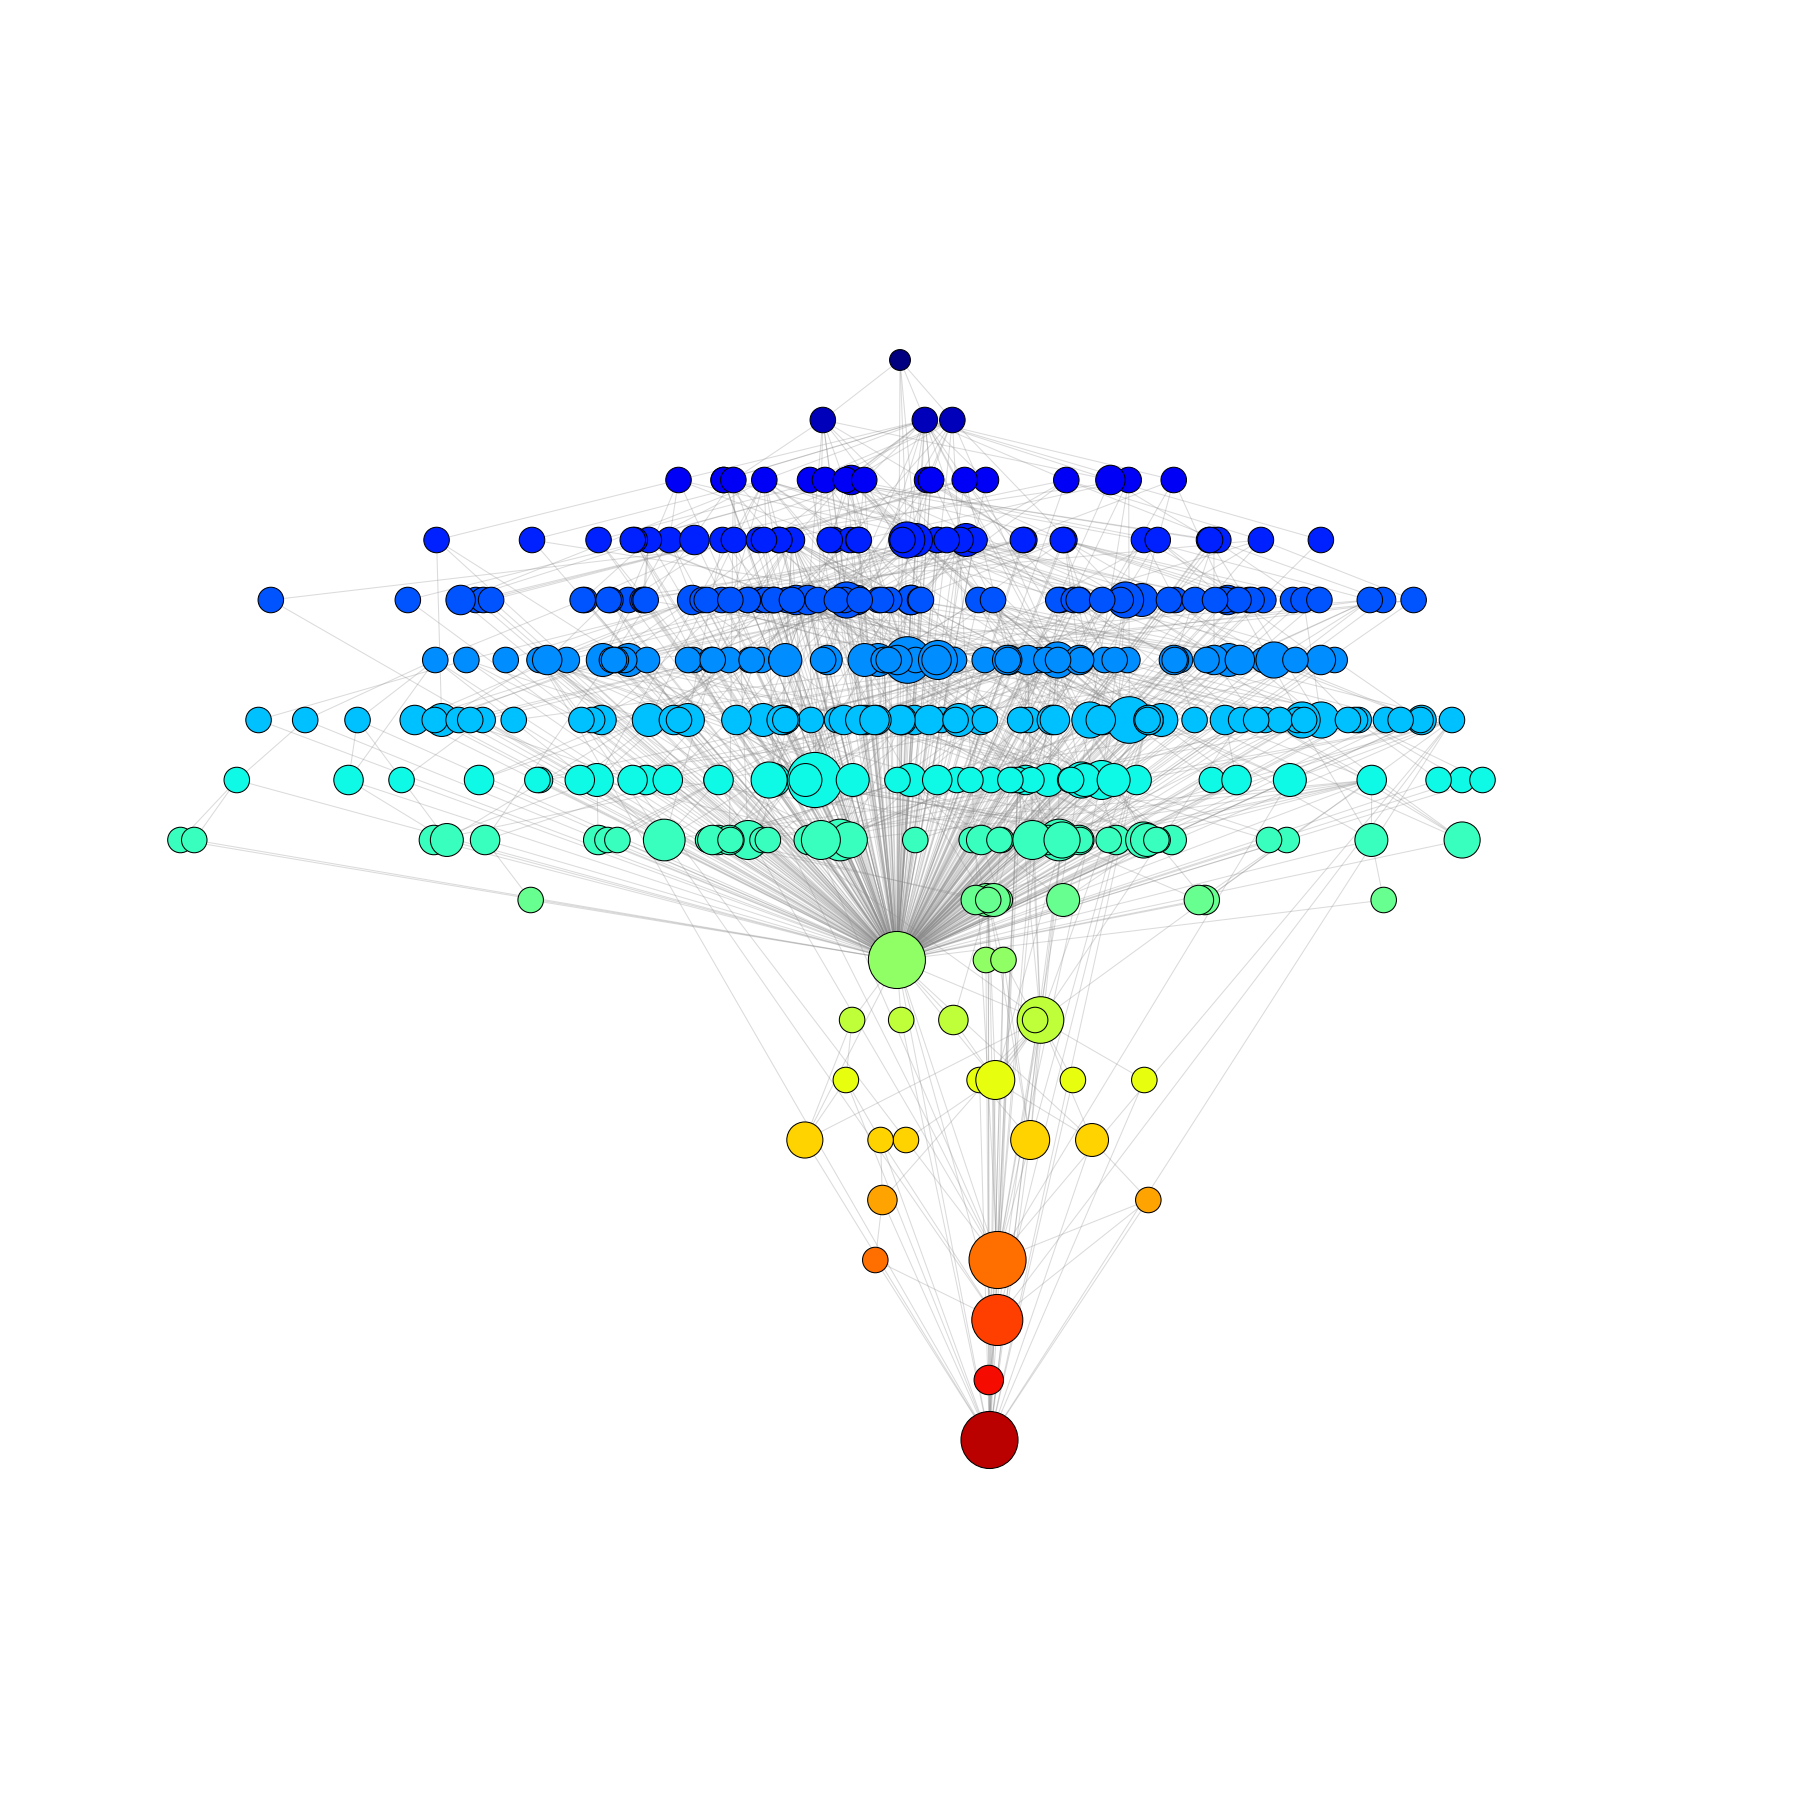
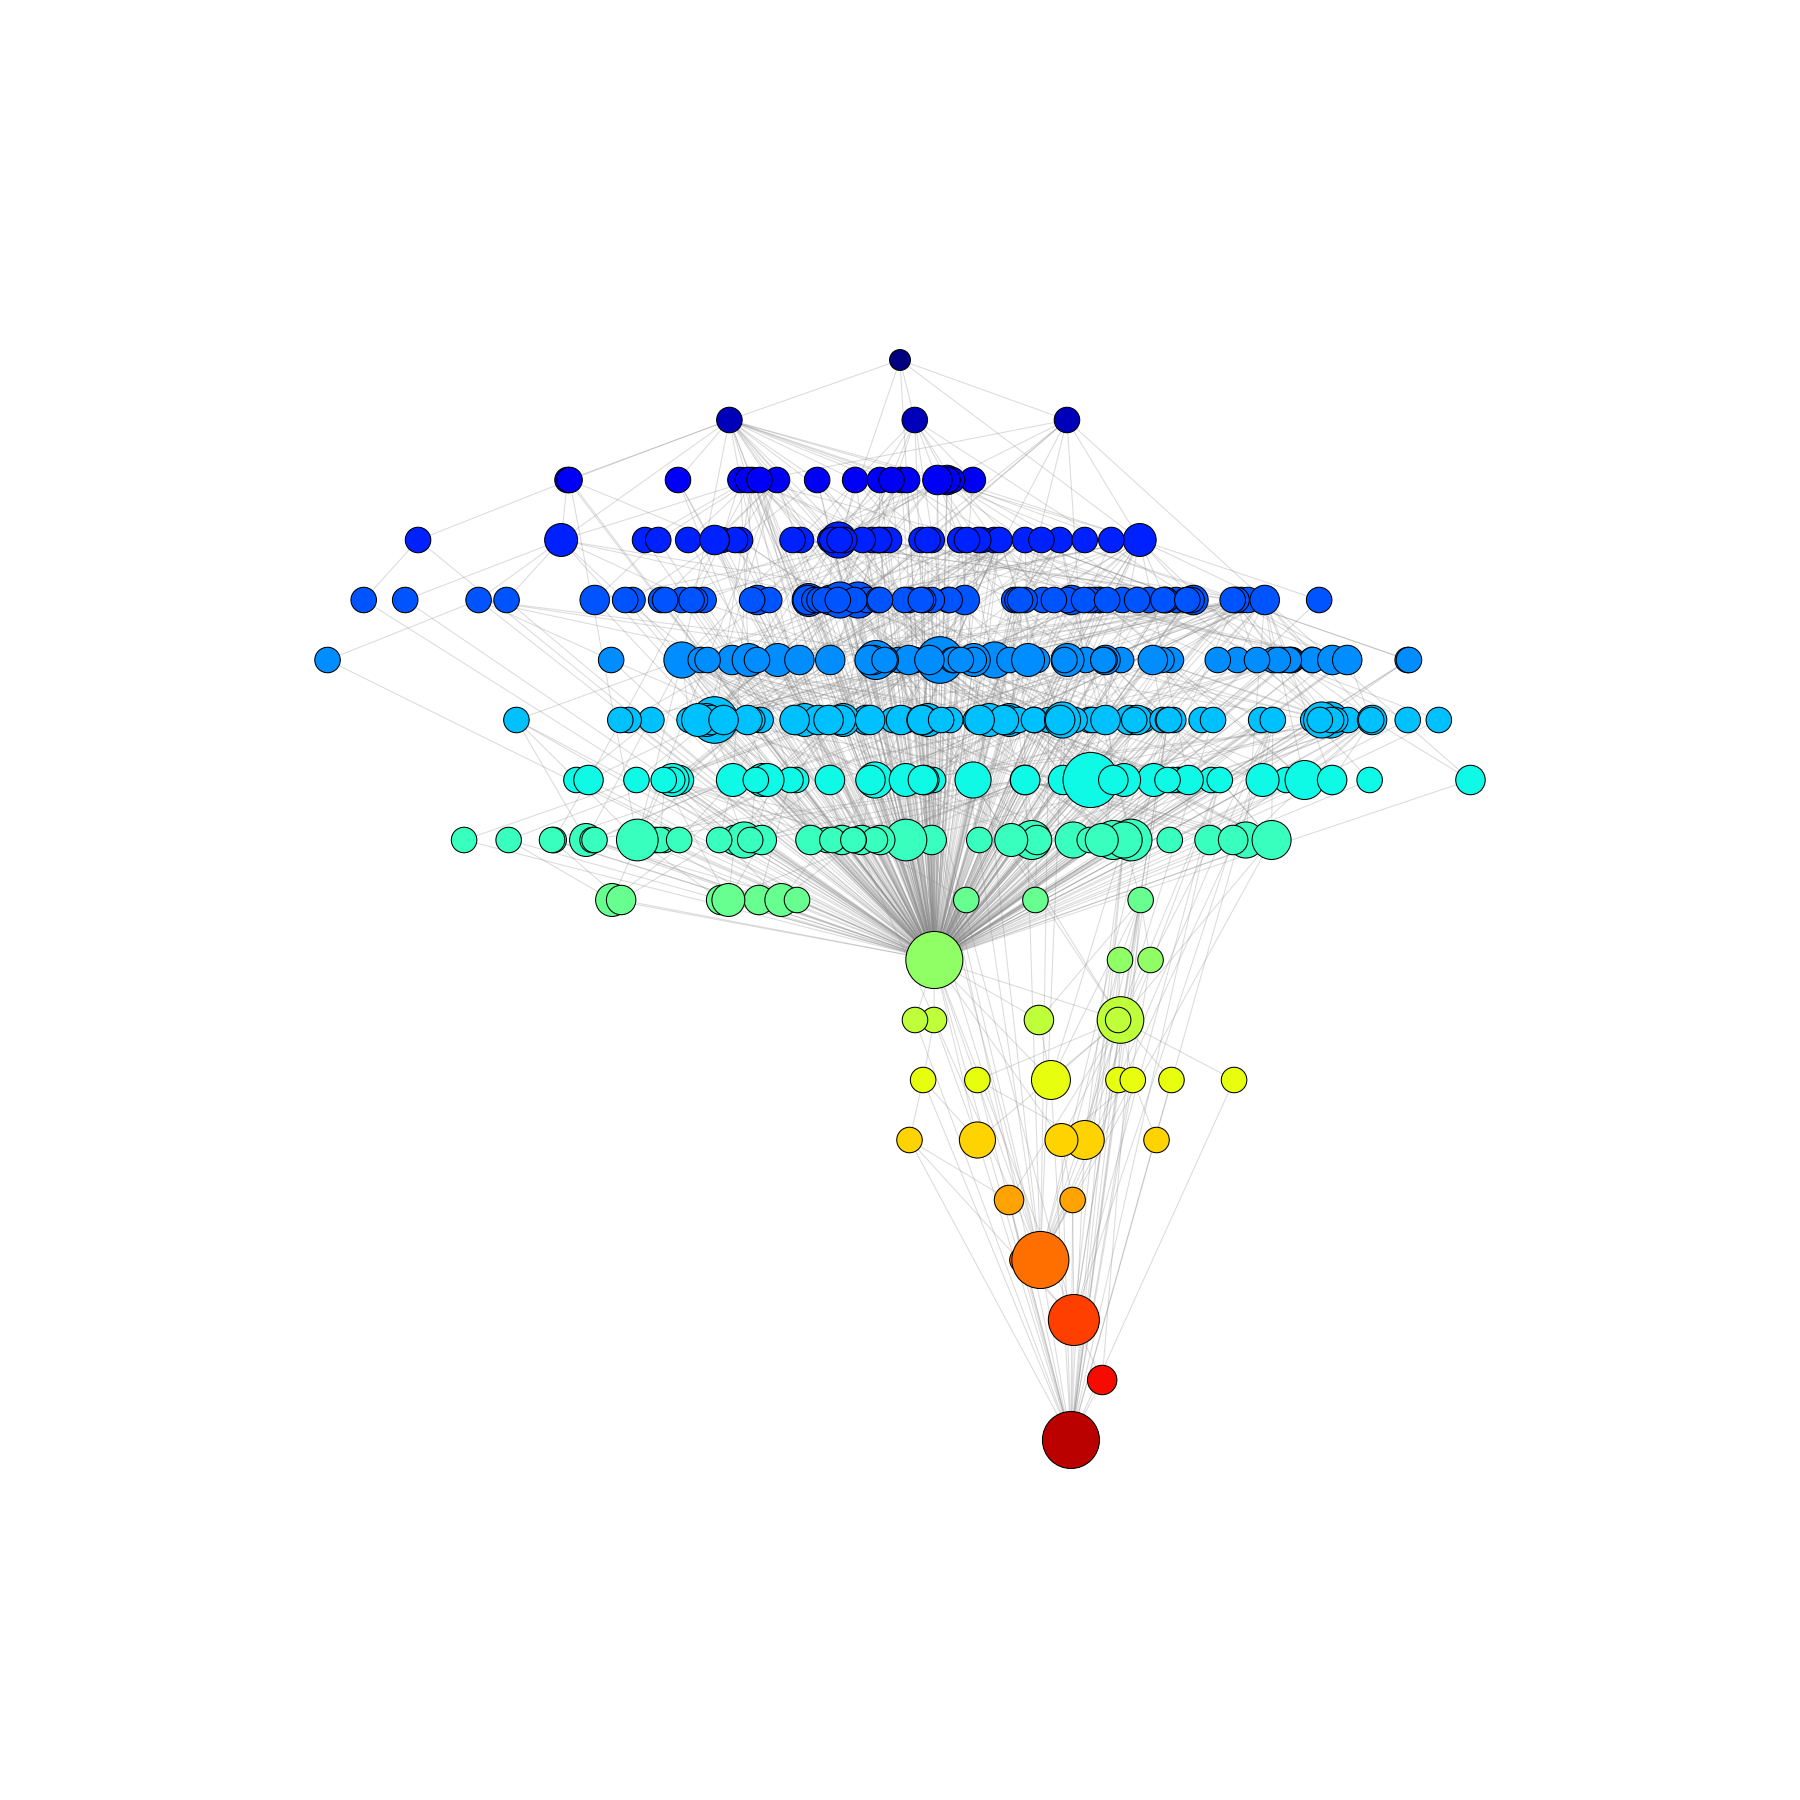
More README

Changed region(s): [[0.1244, 0.2178, 0.84, 0.84], [0.0933, 0.4356, 0.1244, 0.4978], [0.1244, 0.3111, 0.1556, 0.3422]]

diff --git a/README.md b/README.md
@@ -8,6 +8,8 @@ Script that automates the generation of pretty dependency graphs from the output
 
 ## Graph Layout Algorithm
 
+Packages are sorted vertically such that all packages are above everything that they depend upon, and horizontally so that they are close to their direct requirements, while not overlapping more than is necessary.
+
 ### Vertical Positioning:  Levels
 
  Since dependency trees are acyclic, it is possible to sort the tree so that *every package appears below everything it depends on*.  The first step of the graph layout is to perform this sort, which I refer to in the code as adding "levels" to packages.  The bottom of the tree, level *n*, consists of any packages that can be built without any external dependencies.  The level above that, level *n-1* contains any packages that can be built using only packages on level *n*.  The level above that, *n-2*, contains any packages that can be built using only packages on levels *n-1* and *n*.  In this way, all packages on the tree sit above any of their dependencies, and the package we're diagramming out sits at the top of the tree.
@@ -15,4 +17,14 @@ Script that automates the generation of pretty dependency graphs from the output
 <img src="images/levels.png" width="50%">
 
 
-#### Adding random offsets
+#### Adding vertical offsets
+
+In order to keep labels legible, after putting the packages on levels, some of them are given a small vertical offset.  This is done by sorting each level by x-position, and then
+
+
+### Horizontal Positioning
+
+Initially the horizontal positions for packages are chosen randomly, but the structure of the underlying graph is made clearer if we try to optimize for two things:
+
+1. A package should be vertically aligned with the things it depends upon (i.e. the nodes on the level above it that it is linked to), in order to minimize edge crossing as far as possible
+2. A package should try not to be too close to another package on the same level, so as not to have nodes overlap.
